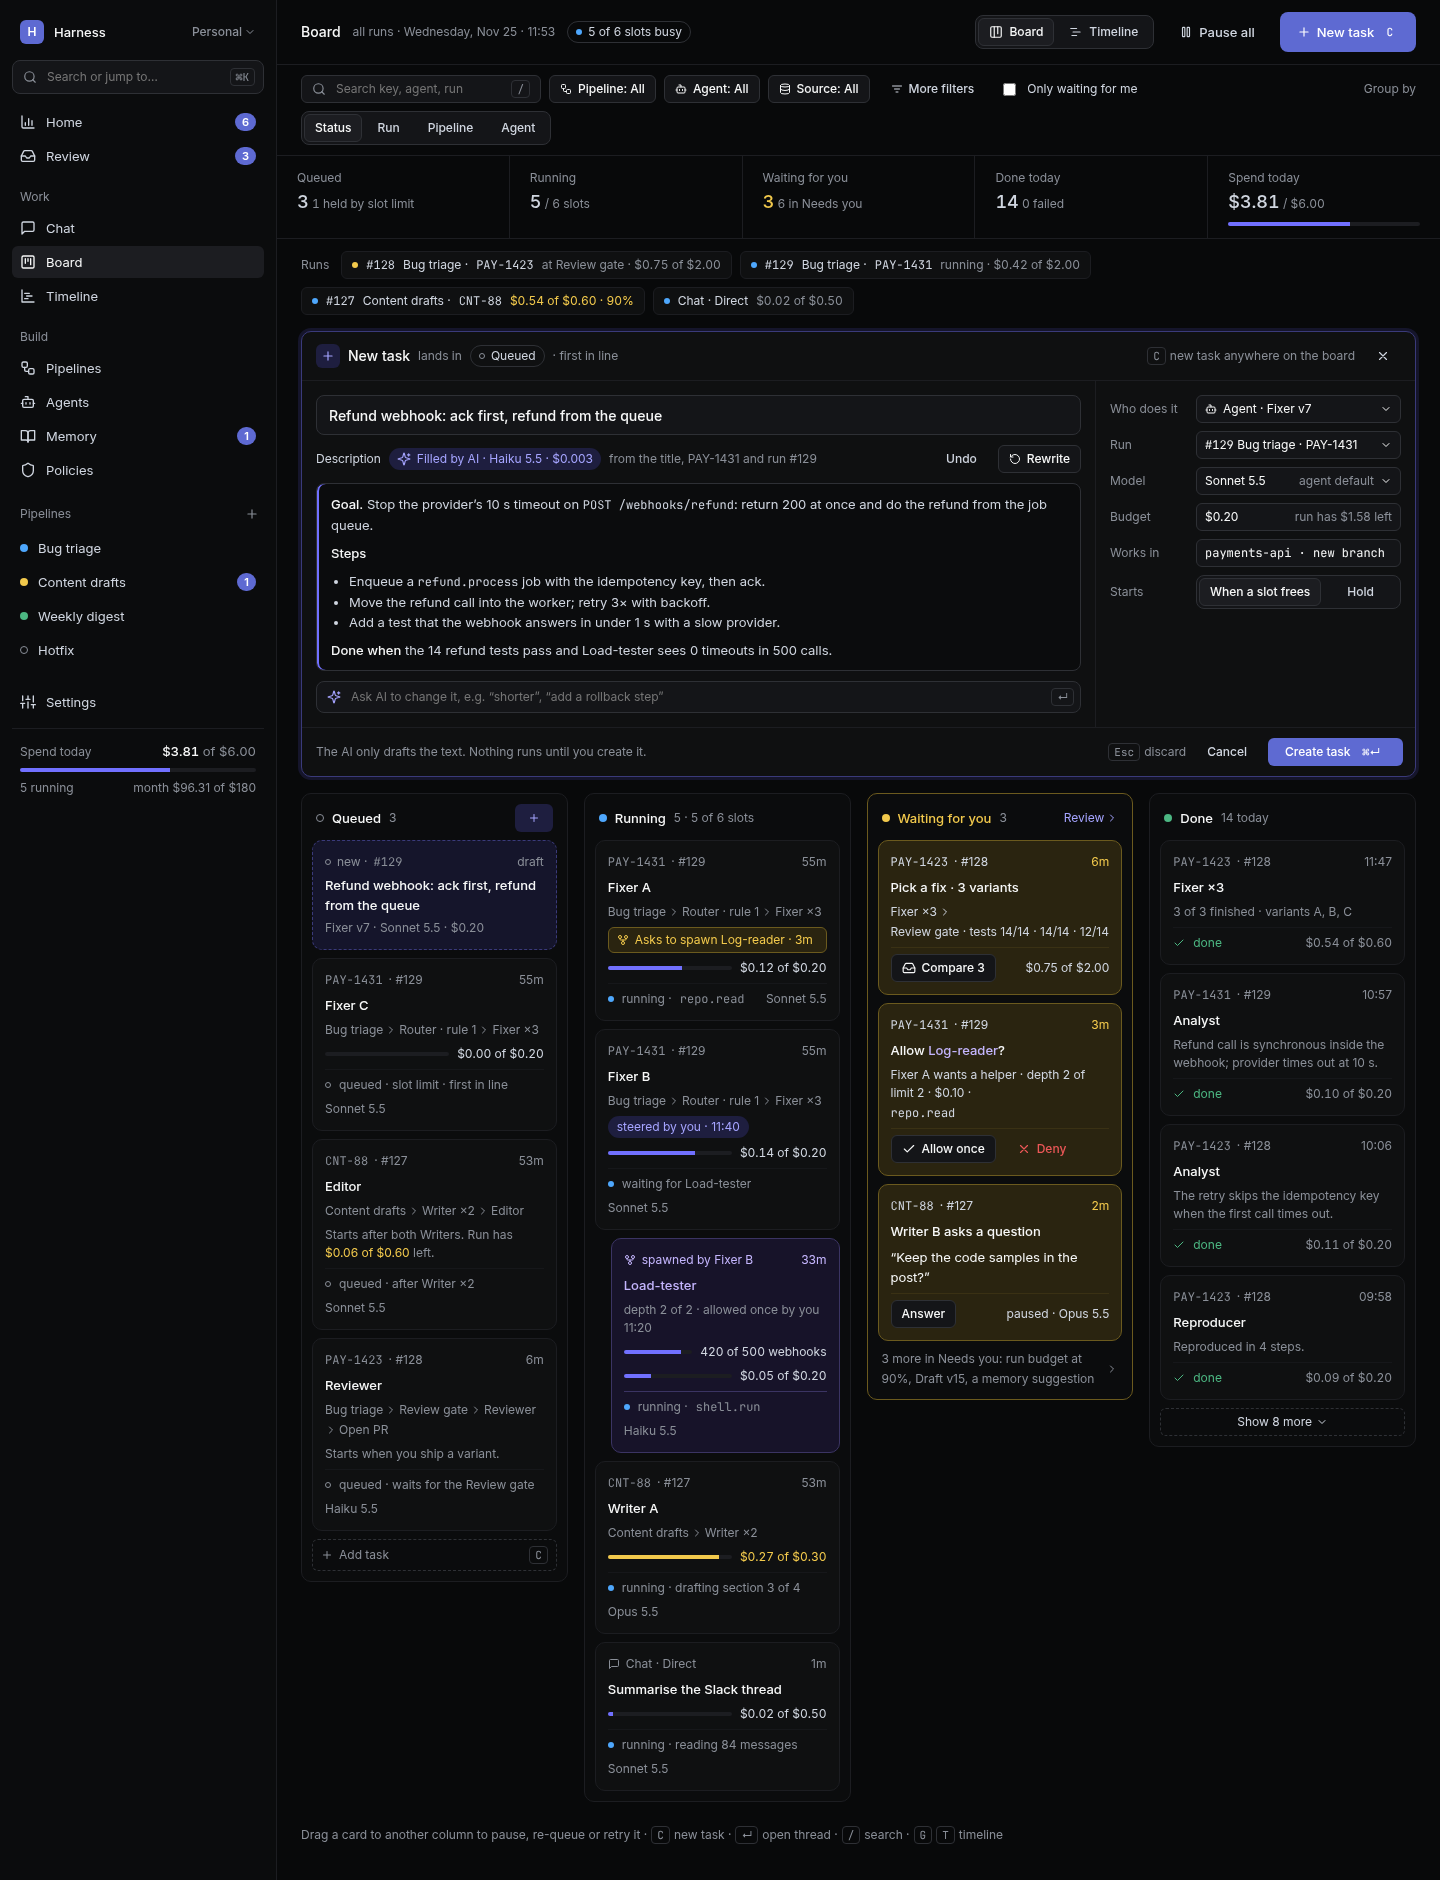
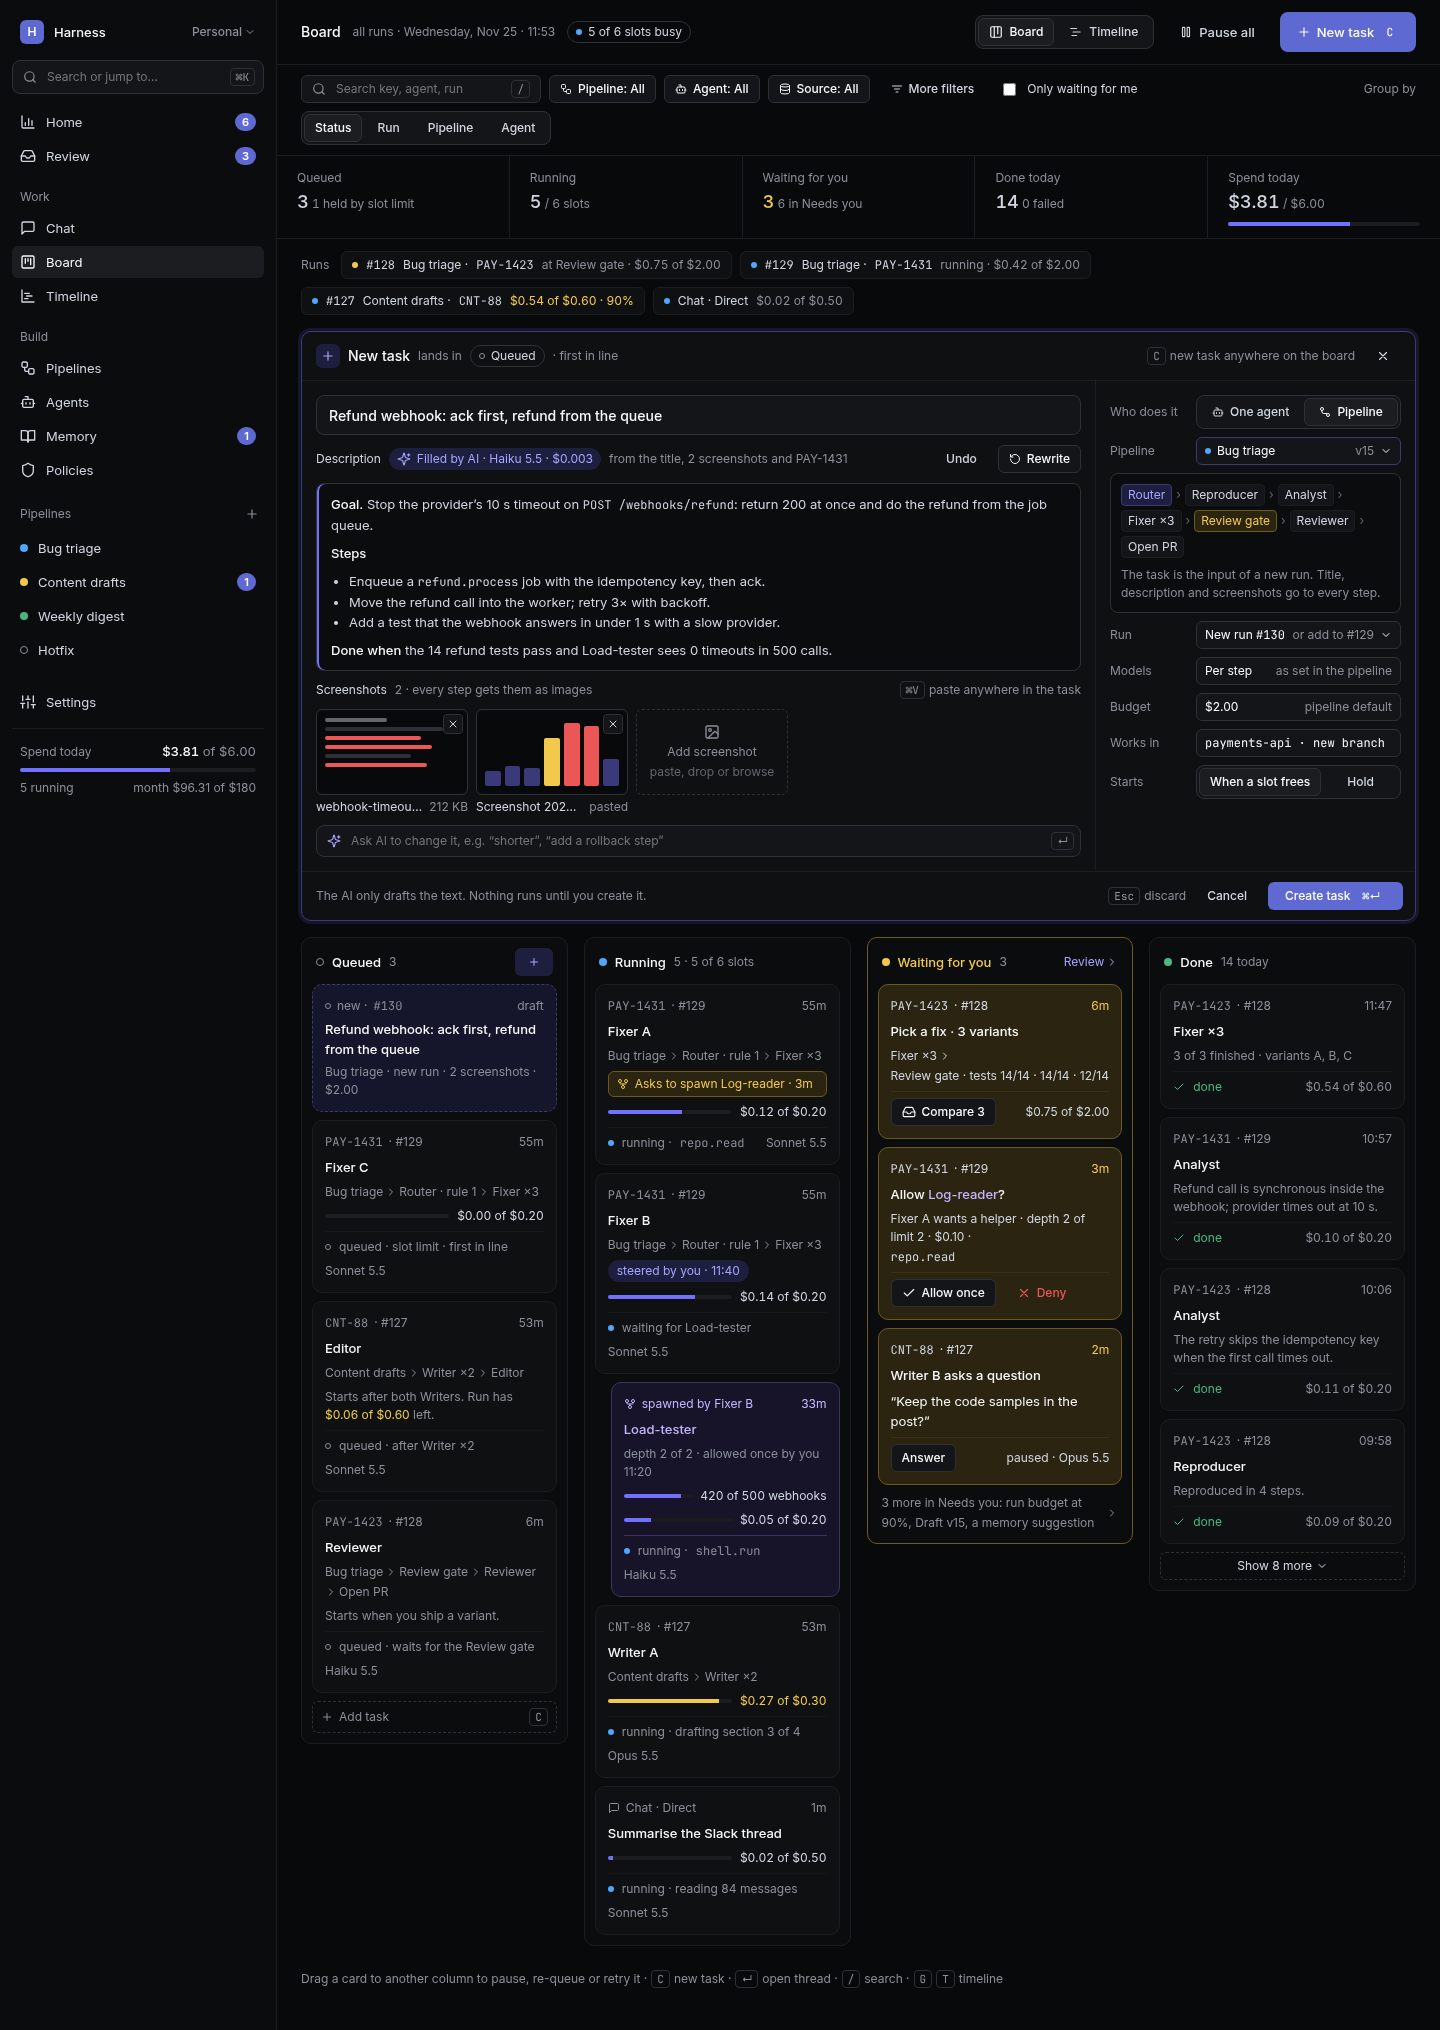
Designer: I redesigned the New task composer on the board mockup. It now lets you (#31)
Run #11 · cant assign pipeline and add screenshots in new task field

diff --git a/design/screens/board.html b/design/screens/board.html
@@ -3,7 +3,7 @@
 <head>
 <meta charset="utf-8">
 <meta name="viewport" content="width=1440">
-<meta name="design:size" content="1440x1880">
+<meta name="design:size" content="1440x2030">
 <title>Board</title>
 <style>
 /* Design tokens (keep in sync with design/tokens.css). */
@@ -323,12 +323,27 @@ a:focus-visible,button:focus-visible,input:focus-visible,select:focus-visible{ou
 .nt-ghost b{color:var(--text);font-weight:500;font-size:13px;line-height:20px}
 .nt-add{display:flex;align-items:center;gap:6px;height:32px;padding:0 8px;border:1px dashed var(--line-strong);border-radius:var(--radius-md);background:transparent;color:var(--text-muted);font:inherit;font-size:12px;cursor:pointer;text-align:left}
 .nt-add:hover{background:var(--surface-raised);color:var(--text)}
+.nt-shots{display:flex;flex-wrap:wrap;gap:8px}
+.nt-shot{display:flex;flex-direction:column;gap:4px;width:152px;min-width:0}
+.nt-shot .img{position:relative;height:86px;box-sizing:border-box;padding:8px;display:flex;flex-direction:column;gap:5px;border:1px solid var(--line-strong);border-radius:var(--radius-md);background:var(--bg);overflow:hidden}
+.nt-shot .img:hover{border-color:var(--accent-ring)}
+.nt-shot .ln{height:4px;border-radius:var(--radius-sm);background:var(--line-strong)}
+.nt-shot .x{position:absolute;top:4px;right:4px;width:20px;height:20px;display:inline-flex;align-items:center;justify-content:center;border:1px solid var(--line-strong);border-radius:var(--radius-sm);background:var(--surface-raised);color:var(--text-secondary);padding:0;cursor:pointer}
+.nt-shot .cap{display:flex;gap:6px;font-size:12px;line-height:16px;color:var(--text-muted);min-width:0}
+.nt-shot .cap .n{flex:1;min-width:0;overflow:hidden;text-overflow:ellipsis;white-space:nowrap;color:var(--text-secondary)}
+.nt-drop{display:flex;flex-direction:column;align-items:center;justify-content:center;gap:4px;width:152px;height:86px;box-sizing:border-box;border:1px dashed var(--line-strong);border-radius:var(--radius-md);background:transparent;color:var(--text-muted);font:inherit;font-size:12px;line-height:16px;cursor:pointer;text-align:center}
+.nt-drop:hover{background:var(--surface-raised);color:var(--text);border-color:var(--accent-ring)}
+.nt-pipe{display:flex;flex-direction:column;gap:8px;padding:10px;border:1px solid var(--line-strong);border-radius:var(--radius-lg);background:var(--bg-sidebar)}
+.nt-steps{display:flex;flex-wrap:wrap;align-items:center;gap:4px;font-size:12px;line-height:16px;color:var(--text-disabled)}
+.nt-step{display:inline-flex;align-items:center;gap:4px;height:20px;padding:0 6px;border:1px solid var(--line);border-radius:var(--radius-sm);background:var(--surface-raised);color:var(--text-secondary);white-space:nowrap}
+.nt-step.gate{border-color:#6b5a1e;background:var(--warning-soft);color:var(--warning)}
+.nt-step.first{border-color:var(--accent-ring);background:var(--accent-soft);color:var(--accent-text)}
 @media (prefers-reduced-motion: reduce) { .nt, .nt-caret, .nt-ai .d { animation: none; } }
 </style>
 </head>
 <body>
 <div id="dc-root"
-><div style="min-height: 1880px; display: flex; flex-wrap: wrap; background: var(--bg); font-family: var(--font-sans); font-size: 13px; line-height: 20px; color: var(--text-secondary);"
+><div style="min-height: 2030px; display: flex; flex-wrap: wrap; background: var(--bg); font-family: var(--font-sans); font-size: 13px; line-height: 20px; color: var(--text-secondary);"
 ><div style="flex: 0 0 276px; min-width: 0; max-width: 100%; background: var(--bg-sidebar); border-right: 1px solid var(--line);"
 ><nav class="gr-nav" aria-label="Main" style="width: 100%; min-height: 800px; gap: 2px; font-family: var(--font-sans); font-size: 13px; line-height: 20px; color: var(--text-secondary);"
 ><button type="button" style="display: flex; align-items: center; gap: 10px; height: 40px; padding: 0px 8px; border: 0px; border-radius: 6px; background: transparent; color: var(--text); font: inherit; font-weight: 500; cursor: pointer; text-align: left;"
@@ -695,7 +710,7 @@ a:focus-visible,button:focus-visible,input:focus-visible,select:focus-visible{ou
 ><path d="M20 3v4M22 5h-4"
 ></path
 ></svg> Filled by AI · Haiku 5.5 · $0.003</span
-><span class="lbl">from the title, PAY-1431 and run #129</span
+><span class="lbl">from the title, 2 screenshots and PAY-1431</span
 ><div style="flex: 1 1 0%;"
 ></div
 ><button type="button" class="gr-btn gr-btn--ghost gr-btn--sm">Undo</button
@@ -721,6 +736,82 @@ a:focus-visible,button:focus-visible,input:focus-visible,select:focus-visible{ou
 ><p
 ><b>Done when</b> the 14 refund tests pass and Load-tester sees 0 timeouts in 500 calls.</p
 ></div
+><div class="nt-dhead"
+><span class="lbl" style="color: var(--text-secondary);">Screenshots</span
+><span class="lbl">2 · every step gets them as images</span
+><div style="flex: 1 1 0%;"
+></div
+><span class="lbl" style="display: inline-flex; align-items: center; gap: 4px;"
+><kbd class="gr-kbd">⌘V</kbd> paste anywhere in the task</span
+></div
+><div class="nt-shots" role="list" aria-label="Screenshots"
+><div class="nt-shot" role="listitem"
+><div class="img" aria-label="Screenshot: provider dashboard showing webhook timeouts"
+><span class="ln" style="width: 46%; background: var(--text-disabled);"
+></span
+><span class="ln" style="width: 88%;"
+></span
+><span class="ln" style="width: 72%; background: var(--danger);"
+></span
+><span class="ln" style="width: 80%; background: var(--danger);"
+></span
+><span class="ln" style="width: 64%;"
+></span
+><span class="ln" style="width: 76%; background: var(--danger);"
+></span
+><button type="button" class="x" aria-label="Remove webhook-timeouts.png"
+><svg width="12" height="12" viewBox="0 0 24 24" fill="none" stroke="currentColor" stroke-width="2" stroke-linecap="round" stroke-linejoin="round" aria-hidden="true" class="gr-icon"
+><path d="M18 6 6 18M6 6l12 12"
+></path
+></svg
+></button
+></div
+><span class="cap"
+><span class="n">webhook-timeouts.png</span
+><span>212 KB</span
+></span
+></div
+><div class="nt-shot" role="listitem"
+><div class="img" aria-label="Screenshot: refund latency chart" style="justify-content: flex-end; flex-direction: row; align-items: flex-end; gap: 4px;"
+><span style="flex: 1 1 0%; height: 22%; border-radius: 2px; background: var(--accent-ring);"
+></span
+><span style="flex: 1 1 0%; height: 30%; border-radius: 2px; background: var(--accent-ring);"
+></span
+><span style="flex: 1 1 0%; height: 26%; border-radius: 2px; background: var(--accent-ring);"
+></span
+><span style="flex: 1 1 0%; height: 70%; border-radius: 2px; background: var(--warning);"
+></span
+><span style="flex: 1 1 0%; height: 92%; border-radius: 2px; background: var(--danger);"
+></span
+><span style="flex: 1 1 0%; height: 88%; border-radius: 2px; background: var(--danger);"
+></span
+><span style="flex: 1 1 0%; height: 40%; border-radius: 2px; background: var(--accent-ring);"
+></span
+><button type="button" class="x" aria-label="Remove Screenshot 2025-11-25 at 11.48.02.png"
+><svg width="12" height="12" viewBox="0 0 24 24" fill="none" stroke="currentColor" stroke-width="2" stroke-linecap="round" stroke-linejoin="round" aria-hidden="true" class="gr-icon"
+><path d="M18 6 6 18M6 6l12 12"
+></path
+></svg
+></button
+></div
+><span class="cap"
+><span class="n">Screenshot 2025-11-25 at 11.48.02.png</span
+><span>pasted</span
+></span
+></div
+><button type="button" class="nt-drop"
+><svg width="16" height="16" viewBox="0 0 24 24" fill="none" stroke="currentColor" stroke-width="2" stroke-linecap="round" stroke-linejoin="round" aria-hidden="true" class="gr-icon"
+><rect width="18" height="18" x="3" y="3" rx="2"
+></rect
+><circle cx="9" cy="9" r="2"
+></circle
+><path d="m21 15-3.09-3.09a2 2 0 0 0-2.82 0L6 21"
+></path
+></svg
+><span>Add screenshot</span
+><span style="color: var(--text-disabled);">paste, drop or browse</span
+></button
+></div
 ><label class="nt-ask"
 ><svg width="14" height="14" viewBox="0 0 24 24" fill="none" stroke="currentColor" stroke-width="2" stroke-linecap="round" stroke-linejoin="round" aria-hidden="true" class="gr-icon"
 ><path d="M9.94 15.5a2 2 0 0 0-1.44-1.44l-6.13-1.58a.5.5 0 0 1 0-.96L8.5 9.94a2 2 0 0 0 1.44-1.44l1.58-6.13a.5.5 0 0 1 .96 0l1.58 6.13a2 2 0 0 0 1.44 1.44l6.13 1.58a.5.5 0 0 1 0 .96l-6.13 1.58a2 2 0 0 0-1.44 1.44l-1.58 6.13a.5.5 0 0 1-.96 0z"
@@ -736,7 +827,8 @@ a:focus-visible,button:focus-visible,input:focus-visible,select:focus-visible{ou
 ><dl class="nt-kv" style="margin: 0px; padding: 14px; border-left: 1px solid var(--line); align-content: start;"
 ><dt>Who does it</dt
 ><dd
-><button type="button" class="nt-pick"
+><div role="group" aria-label="Who does it" class="seg"
+><button type="button" class="gr-btn gr-btn--sm gr-btn--ghost" aria-pressed="false" style="flex: 1 1 0%;"
 ><svg width="12" height="12" viewBox="0 0 24 24" fill="none" stroke="currentColor" stroke-width="2" stroke-linecap="round" stroke-linejoin="round" aria-hidden="true" class="gr-icon"
 ><path d="M12 8V4H8"
 ></path
@@ -744,41 +836,63 @@ a:focus-visible,button:focus-visible,input:focus-visible,select:focus-visible{ou
 ></rect
 ><path d="M2 14h2M20 14h2M15 13v2M9 13v2"
 ></path
-></svg
-><span class="s">Agent · Fixer v7</span
+></svg>One agent</button
+><button type="button" class="gr-btn gr-btn--sm gr-btn--secondary" aria-pressed="true" style="background: var(--surface-hover); flex: 1 1 0%;"
+><svg width="12" height="12" viewBox="0 0 24 24" fill="none" stroke="currentColor" stroke-width="2" stroke-linecap="round" stroke-linejoin="round" aria-hidden="true" class="gr-icon"
+><circle cx="6" cy="6" r="3"
+></circle
+><circle cx="18" cy="18" r="3"
+></circle
+><path d="M6 9v3a3 3 0 0 0 3 3h6"
+></path
+></svg>Pipeline</button
+></div
+></dd
+><dt>Pipeline</dt
+><dd
+><button type="button" class="nt-pick" style="border-color: var(--accent-ring);"
+><span class="gr-dot gr-dot--running gr-dot--sm" aria-hidden="true"
+></span
+><span class="s">Bug triage</span
+><span class="m">v15</span
 ><svg width="12" height="12" viewBox="0 0 24 24" fill="none" stroke="currentColor" stroke-width="2" stroke-linecap="round" stroke-linejoin="round" aria-hidden="true" class="gr-icon"
 ><path d="m6 9 6 6 6-6"
 ></path
 ></svg
 ></button
+></dd
+><dd style="grid-column: 1 / -1;"
+><div class="nt-pipe" aria-label="What Bug triage will do with this task"
+><div class="nt-steps"
+><span class="nt-step first">Router</span>›<span class="nt-step">Reproducer</span>›<span class="nt-step">Analyst</span>›<span class="nt-step">Fixer ×3</span>›<span class="nt-step gate">Review gate</span>›<span class="nt-step">Reviewer</span>›<span class="nt-step">Open PR</span
+></div
+><span class="lbl">The task is the input of a new run. Title, description and screenshots go to every step.</span
+></div
 ></dd
 ><dt>Run</dt
 ><dd
 ><button type="button" class="nt-pick"
-><span class="s"
-><span class="mono" style="font-size: 12px;">#129</span> Bug triage · PAY-1431</span
+><span class="s">New run <span class="mono" style="font-size: 12px;">#130</span
+></span
+><span class="m">or add to #129</span
 ><svg width="12" height="12" viewBox="0 0 24 24" fill="none" stroke="currentColor" stroke-width="2" stroke-linecap="round" stroke-linejoin="round" aria-hidden="true" class="gr-icon"
 ><path d="m6 9 6 6 6-6"
 ></path
 ></svg
 ></button
 ></dd
-><dt>Model</dt
+><dt>Models</dt
 ><dd
 ><button type="button" class="nt-pick"
-><span class="s">Sonnet 5.5</span
-><span class="m">agent default</span
-><svg width="12" height="12" viewBox="0 0 24 24" fill="none" stroke="currentColor" stroke-width="2" stroke-linecap="round" stroke-linejoin="round" aria-hidden="true" class="gr-icon"
-><path d="m6 9 6 6 6-6"
-></path
-></svg
+><span class="s">Per step</span
+><span class="m">as set in the pipeline</span
 ></button
 ></dd
 ><dt>Budget</dt
 ><dd
 ><button type="button" class="nt-pick"
-><span class="s">$0.20</span
-><span class="m">run has $1.58 left</span
+><span class="s">$2.00</span
+><span class="m">pipeline default</span
 ></button
 ></dd
 ><dt>Works in</dt
@@ -826,11 +940,11 @@ a:focus-visible,button:focus-visible,input:focus-visible,select:focus-visible{ou
 ><div class="nt-ghost" aria-hidden="true"
 ><span style="display: flex; align-items: center; gap: 6px;"
 ><span class="gr-dot gr-dot--draft gr-dot--sm"
-></span>new · <span class="mono" style="font-size: 12px; line-height: 18px;">#129</span
+></span>new · <span class="mono" style="font-size: 12px; line-height: 18px;">#130</span
 ><div style="flex: 1 1 0%;"
 ></div>draft</span
 ><b>Refund webhook: ack first, refund from the queue</b
-><span>Fixer v7 · Sonnet 5.5 · $0.20</span
+><span>Bug triage · new run · 2 screenshots · $2.00</span
 ></div
 ><article class="tcard"
 ><div class="ctop"
